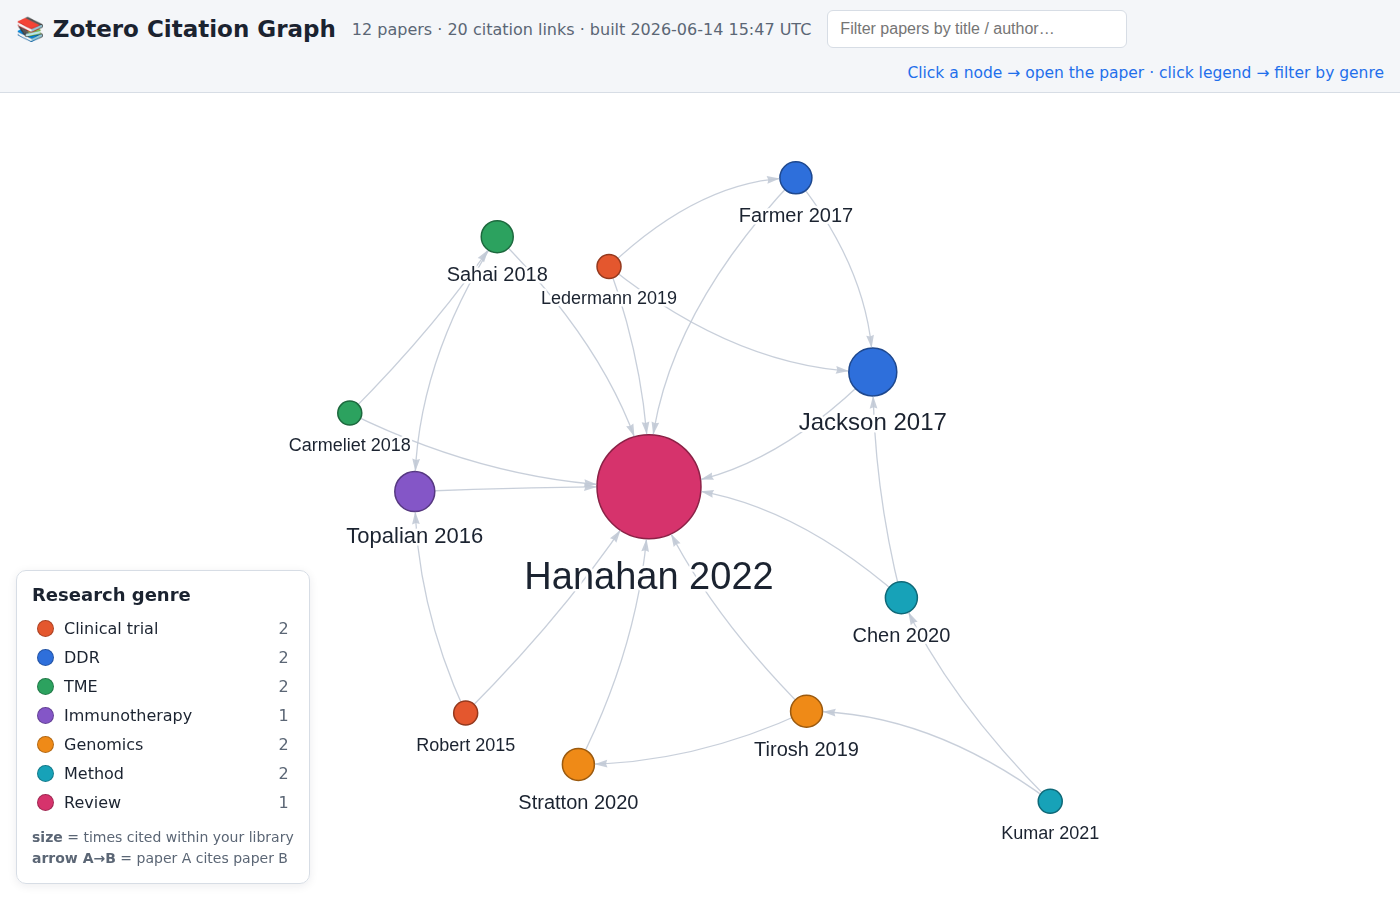
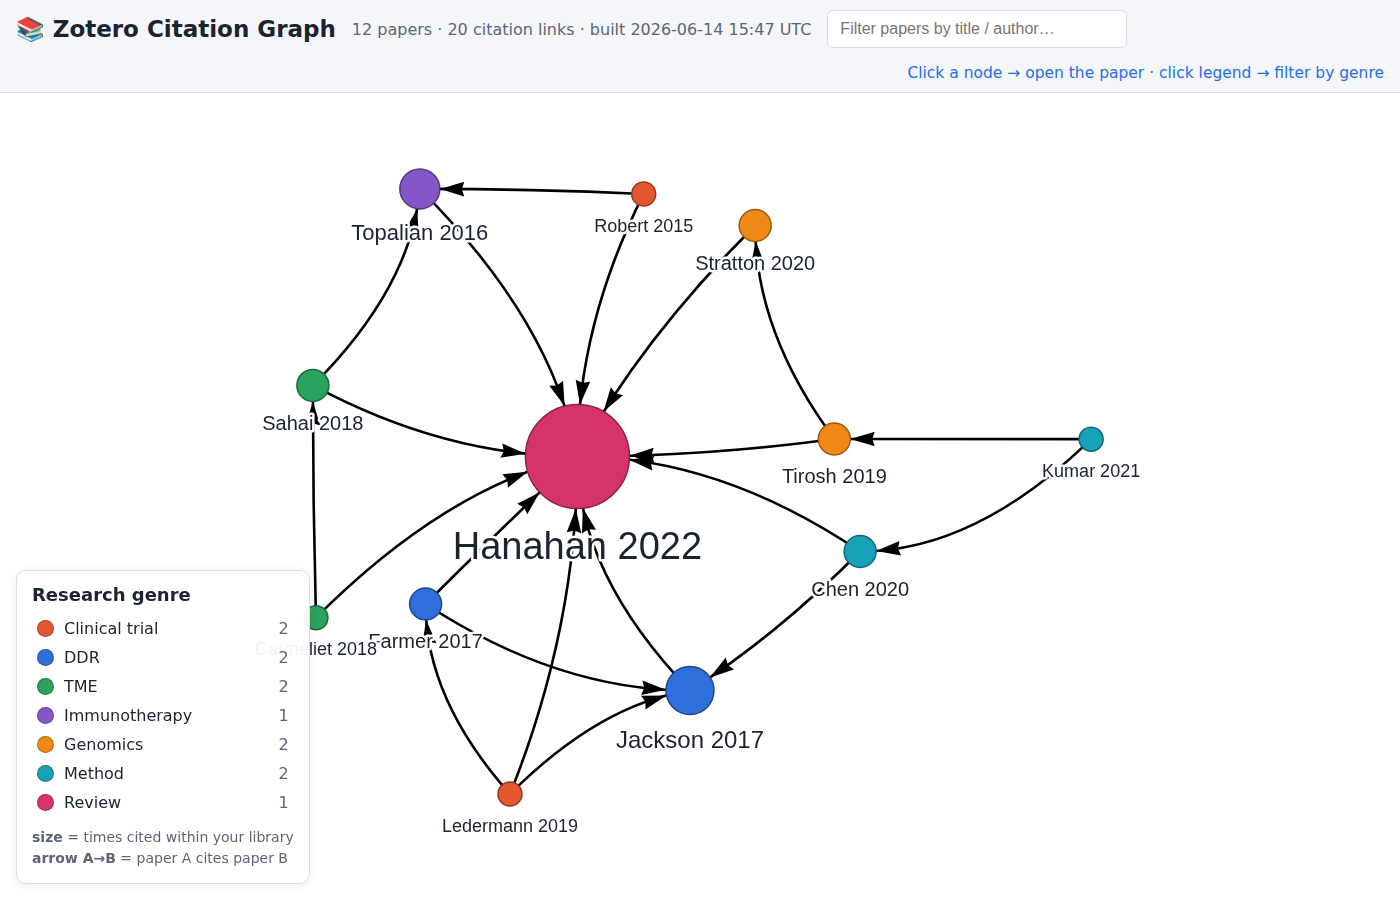
Make citation arrows black and thicker
Edges: colour #c2cad6 -> #000000 (opacity 1, inherit:false), width 1.3 -> 2.6,
arrowhead scaleFactor 0.6 -> 1.1, for clearer citation direction.

https://claude.ai/code/session_016mgMTU6iwb49Rf9iZ3p4AG

diff --git a/zotero-citation-graph/index.html b/zotero-citation-graph/index.html
@@ -111,8 +111,9 @@
   const network = new vis.Network(host, { nodes, edges }, {
     nodes: { shape: "dot", borderWidth: 1.5,
       scaling: { min: 12, max: 52, label: { enabled: true, min: 18, max: 38 } } },
-    edges: { color: { color: "#c2cad6", highlight: "#6b7686", opacity: 0.9 },
-      width: 1.3, smooth: { type: "continuous" }, arrows: { to: { scaleFactor: 0.6 } } },
+    edges: { color: { color: "#000000", highlight: "#000000", inherit: false, opacity: 1 },
+      width: 2.6, selectionWidth: 1.4, smooth: { type: "continuous" },
+      arrows: { to: { enabled: true, scaleFactor: 1.1 } } },
     physics: { barnesHut: { gravitationalConstant: -12000, centralGravity: 0.25,
       springLength: 170, springConstant: 0.04, damping: 0.6, avoidOverlap: 1 },
       stabilization: { iterations: 300 } },
